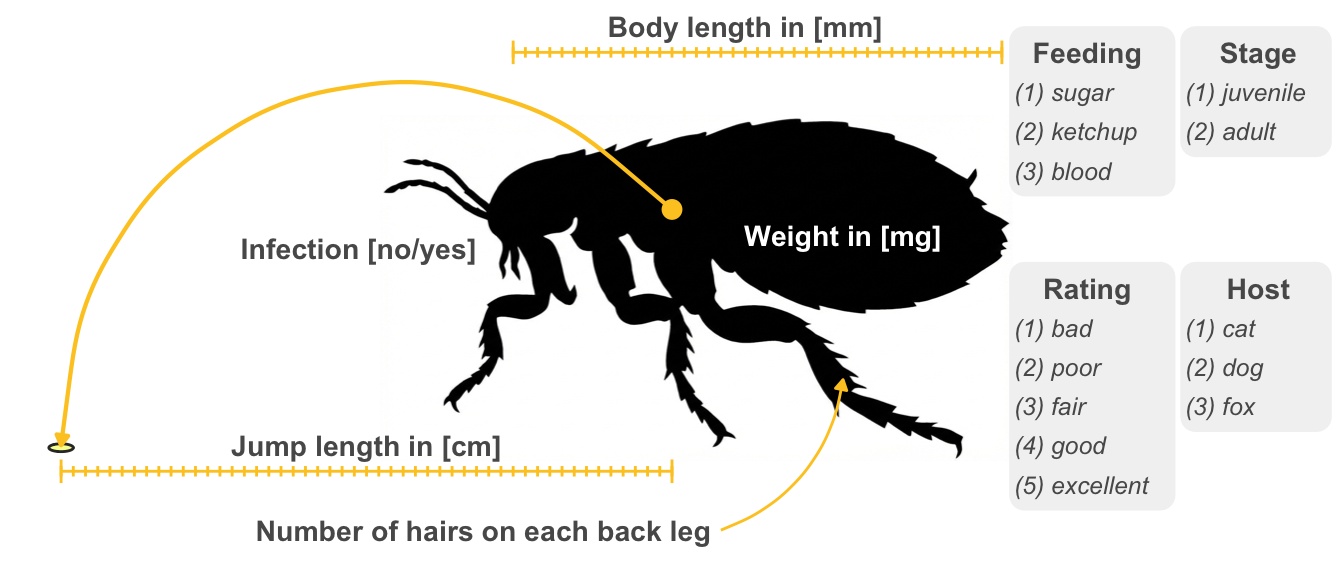
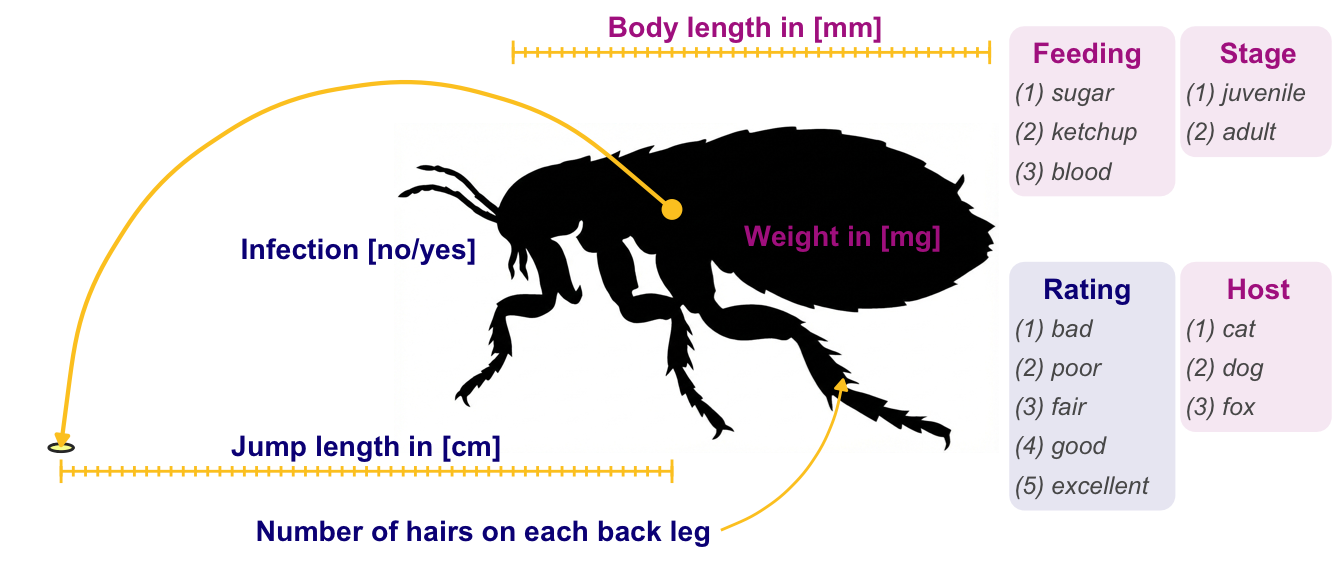
added

diff --git a/docs/chapter-11-covariate-data.html b/docs/chapter-11-covariate-data.html
@@ -432,7 +432,7 @@ window.Quarto = {
 </header>
 
 
-<p><em>Last modified on 30. December 2025 at 13:33:26</em></p>
+<p><em>Last modified on 30. December 2025 at 14:30:48</em></p>
 <blockquote class="blockquote">
 <p><em>“A quote.” — Dan Meyer</em></p>
 </blockquote>
@@ -1132,19 +1132,19 @@ Figure&nbsp;4.4: foo <strong>(A)</strong> foo <strong>(B)</strong> foo
 <span id="cb9-34"><a href="#cb9-34" aria-hidden="true" tabindex="-1"></a>  <span class="fu">theme_minimal</span>() <span class="sc">+</span></span>
 <span id="cb9-35"><a href="#cb9-35" aria-hidden="true" tabindex="-1"></a>  <span class="fu">theme_void</span>() <span class="sc">+</span></span>
 <span id="cb9-36"><a href="#cb9-36" aria-hidden="true" tabindex="-1"></a>  <span class="fu">coord_cartesian</span>(<span class="at">xlim =</span> <span class="fu">c</span>(<span class="sc">-</span><span class="dv">10</span>, <span class="dv">15</span>), <span class="at">ylim =</span> <span class="fu">c</span>(<span class="sc">-</span><span class="dv">10</span>, <span class="dv">10</span>)) <span class="sc">+</span></span>
-<span id="cb9-37"><a href="#cb9-37" aria-hidden="true" tabindex="-1"></a>  <span class="fu">geom_image</span>(<span class="fu">aes</span>(<span class="at">x =</span> <span class="dv">3</span>, <span class="at">y =</span> <span class="dv">0</span>, <span class="at">image =</span> <span class="st">"images/flea_00.png"</span>), <span class="at">size =</span> <span class="fl">1.1</span>) <span class="sc">+</span></span>
-<span id="cb9-38"><a href="#cb9-38" aria-hidden="true" tabindex="-1"></a>  <span class="fu">annotate</span>(<span class="st">"errorbar"</span>, <span class="at">xmin =</span> <span class="sc">-</span><span class="fl">0.75</span>, <span class="at">xmax =</span> <span class="fl">9.25</span>, <span class="at">x =</span> <span class="dv">5</span>, <span class="at">y =</span> <span class="dv">9</span>, <span class="at">color =</span> <span class="st">"#FDC926FF"</span>) <span class="sc">+</span></span>
+<span id="cb9-37"><a href="#cb9-37" aria-hidden="true" tabindex="-1"></a>  <span class="fu">geom_image</span>(<span class="fu">aes</span>(<span class="at">x =</span> <span class="dv">3</span>, <span class="at">y =</span> <span class="dv">0</span>, <span class="at">image =</span> <span class="st">"images/flea_00.png"</span>), <span class="at">size =</span> <span class="fl">1.05</span>) <span class="sc">+</span></span>
+<span id="cb9-38"><a href="#cb9-38" aria-hidden="true" tabindex="-1"></a>  <span class="fu">annotate</span>(<span class="st">"errorbar"</span>, <span class="at">xmin =</span> <span class="sc">-</span><span class="fl">0.75</span>, <span class="at">xmax =</span> <span class="dv">9</span>, <span class="at">x =</span> <span class="dv">5</span>, <span class="at">y =</span> <span class="dv">9</span>, <span class="at">color =</span> <span class="st">"#FDC926FF"</span>) <span class="sc">+</span></span>
 <span id="cb9-39"><a href="#cb9-39" aria-hidden="true" tabindex="-1"></a>  <span class="fu">annotate</span>(<span class="st">"text"</span>, <span class="at">x =</span> (<span class="sc">-</span><span class="fl">0.75</span> <span class="sc">+</span> <span class="fl">8.75</span>)<span class="sc">/</span><span class="dv">2</span>, <span class="at">y =</span> <span class="dv">10</span>, <span class="at">label =</span> <span class="st">"Body length in [mm]"</span>, </span>
-<span id="cb9-40"><a href="#cb9-40" aria-hidden="true" tabindex="-1"></a>           <span class="at">size =</span> <span class="fl">3.75</span>, <span class="at">fontface =</span> <span class="dv">2</span>, <span class="at">color =</span> <span class="st">"gray35"</span>) <span class="sc">+</span></span>
-<span id="cb9-41"><a href="#cb9-41" aria-hidden="true" tabindex="-1"></a>  <span class="fu">annotate</span>(<span class="st">"segment"</span>, <span class="at">x =</span> <span class="fu">seq</span>(<span class="sc">-</span><span class="fl">0.75</span>, <span class="fl">9.5</span>, <span class="at">by =</span> <span class="fl">0.25</span>), <span class="at">xend =</span> <span class="fu">seq</span>(<span class="sc">-</span><span class="fl">0.75</span>, <span class="fl">9.5</span>, <span class="at">by =</span> <span class="fl">0.25</span>),</span>
+<span id="cb9-40"><a href="#cb9-40" aria-hidden="true" tabindex="-1"></a>           <span class="at">size =</span> <span class="fl">3.75</span>, <span class="at">fontface =</span> <span class="dv">2</span>, <span class="at">color =</span> <span class="st">"#B12A90FF"</span>) <span class="sc">+</span></span>
+<span id="cb9-41"><a href="#cb9-41" aria-hidden="true" tabindex="-1"></a>  <span class="fu">annotate</span>(<span class="st">"segment"</span>, <span class="at">x =</span> <span class="fu">seq</span>(<span class="sc">-</span><span class="fl">0.75</span>, <span class="dv">9</span>, <span class="at">by =</span> <span class="fl">0.25</span>), <span class="at">xend =</span> <span class="fu">seq</span>(<span class="sc">-</span><span class="fl">0.75</span>, <span class="dv">9</span>, <span class="at">by =</span> <span class="fl">0.25</span>),</span>
 <span id="cb9-42"><a href="#cb9-42" aria-hidden="true" tabindex="-1"></a>           <span class="at">y =</span> <span class="fl">8.8</span>, <span class="at">yend =</span> <span class="fl">9.2</span>, <span class="at">color =</span> <span class="st">"#FDC926FF"</span>) <span class="sc">+</span></span>
 <span id="cb9-43"><a href="#cb9-43" aria-hidden="true" tabindex="-1"></a>  <span class="fu">geom_curve</span>(<span class="fu">aes</span>(<span class="at">x =</span> <span class="fl">3.5</span>, <span class="at">y =</span> <span class="sc">-</span><span class="fl">9.25</span>, <span class="at">xend =</span> <span class="dv">6</span>, <span class="at">yend =</span> <span class="sc">-</span><span class="fl">3.5</span>),</span>
 <span id="cb9-44"><a href="#cb9-44" aria-hidden="true" tabindex="-1"></a>             <span class="at">arrow =</span> <span class="fu">arrow</span>(<span class="at">length =</span> <span class="fu">unit</span>(<span class="fl">0.02</span>, <span class="st">"npc"</span>), <span class="at">type =</span> <span class="st">"closed"</span>),</span>
 <span id="cb9-45"><a href="#cb9-45" aria-hidden="true" tabindex="-1"></a>             <span class="at">curvature =</span> <span class="fl">0.3</span>, <span class="at">color =</span> <span class="st">"#FDC926FF"</span>, <span class="at">linewidth =</span> <span class="fl">0.5</span>) <span class="sc">+</span></span>
 <span id="cb9-46"><a href="#cb9-46" aria-hidden="true" tabindex="-1"></a>  <span class="fu">annotate</span>(<span class="st">"text"</span>, <span class="at">x =</span> <span class="fl">3.3</span>, <span class="at">y =</span> <span class="sc">-</span><span class="fl">9.25</span>, <span class="at">label =</span> <span class="st">"Number of hairs on each back leg"</span>,</span>
-<span id="cb9-47"><a href="#cb9-47" aria-hidden="true" tabindex="-1"></a>           <span class="at">hjust =</span> <span class="st">"right"</span>, <span class="at">size =</span> <span class="fl">3.75</span>, <span class="at">fontface =</span> <span class="dv">2</span>, <span class="at">color =</span> <span class="st">"gray35"</span>) <span class="sc">+</span></span>
+<span id="cb9-47"><a href="#cb9-47" aria-hidden="true" tabindex="-1"></a>           <span class="at">hjust =</span> <span class="st">"right"</span>, <span class="at">size =</span> <span class="fl">3.75</span>, <span class="at">fontface =</span> <span class="dv">2</span>, <span class="at">color =</span> <span class="st">"#0D0887FF"</span>) <span class="sc">+</span></span>
 <span id="cb9-48"><a href="#cb9-48" aria-hidden="true" tabindex="-1"></a>  <span class="fu">annotate</span>(<span class="st">"text"</span>, <span class="at">x =</span> <span class="dv">6</span>, <span class="at">y =</span> <span class="dv">2</span>, <span class="at">label =</span> <span class="st">"Weight in [mg]"</span>,</span>
-<span id="cb9-49"><a href="#cb9-49" aria-hidden="true" tabindex="-1"></a>           <span class="at">hjust =</span> <span class="st">"center"</span>, <span class="at">color =</span> <span class="st">"white"</span>, <span class="at">size =</span> <span class="fl">3.75</span>, <span class="at">fontface =</span> <span class="dv">2</span>) <span class="sc">+</span></span>
+<span id="cb9-49"><a href="#cb9-49" aria-hidden="true" tabindex="-1"></a>           <span class="at">hjust =</span> <span class="st">"center"</span>, <span class="at">color =</span> <span class="st">"#B12A90FF"</span>, <span class="at">size =</span> <span class="fl">3.75</span>, <span class="at">fontface =</span> <span class="dv">2</span>) <span class="sc">+</span></span>
 <span id="cb9-50"><a href="#cb9-50" aria-hidden="true" tabindex="-1"></a>  <span class="fu">geom_ellipse</span>(<span class="fu">aes</span>(<span class="at">x0 =</span> <span class="sc">-</span><span class="dv">10</span>, <span class="at">y0 =</span> <span class="sc">-</span><span class="fl">6.1</span>, <span class="at">a =</span> <span class="fl">0.25</span>, <span class="at">b =</span> <span class="fl">0.15</span>, <span class="at">angle =</span> <span class="dv">0</span>), </span>
 <span id="cb9-51"><a href="#cb9-51" aria-hidden="true" tabindex="-1"></a>               <span class="at">color =</span> <span class="st">"gray20"</span>, <span class="at">fill =</span> <span class="st">"#F0F92180"</span>) <span class="sc">+</span></span>
 <span id="cb9-52"><a href="#cb9-52" aria-hidden="true" tabindex="-1"></a>  <span class="fu">geom_curve</span>(<span class="fu">aes</span>(<span class="at">x =</span> <span class="fl">2.5</span>, <span class="at">y =</span> <span class="dv">3</span>, <span class="at">xend =</span> <span class="sc">-</span><span class="dv">10</span>, <span class="at">yend =</span> <span class="sc">-</span><span class="dv">6</span>),</span>
@@ -1153,42 +1153,42 @@ Figure&nbsp;4.4: foo <strong>(A)</strong> foo <strong>(B)</strong> foo
 <span id="cb9-55"><a href="#cb9-55" aria-hidden="true" tabindex="-1"></a>  <span class="fu">annotate</span>(<span class="st">"point"</span>, <span class="at">x =</span> <span class="fl">2.5</span>, <span class="at">y =</span> <span class="dv">3</span>, <span class="at">size =</span> <span class="dv">3</span>, <span class="at">color =</span> <span class="st">"#FDC926FF"</span>) <span class="sc">+</span></span>
 <span id="cb9-56"><a href="#cb9-56" aria-hidden="true" tabindex="-1"></a>  <span class="fu">annotate</span>(<span class="st">"errorbar"</span>, <span class="at">xmin =</span> <span class="fl">2.5</span>, <span class="at">xmax =</span> <span class="sc">-</span><span class="dv">10</span>, <span class="at">x =</span> <span class="fl">2.5</span>, <span class="at">y =</span> <span class="sc">-</span><span class="dv">7</span>, <span class="at">color =</span> <span class="st">"#FDC926FF"</span>) <span class="sc">+</span></span>
 <span id="cb9-57"><a href="#cb9-57" aria-hidden="true" tabindex="-1"></a>  <span class="fu">annotate</span>(<span class="st">"text"</span>, <span class="at">x =</span> (<span class="fl">2.5</span> <span class="sc">+</span> <span class="sc">-</span><span class="dv">10</span>)<span class="sc">/</span><span class="dv">2</span>, <span class="at">y =</span> <span class="sc">-</span><span class="dv">6</span>, <span class="at">label =</span> <span class="st">"Jump length in [cm]"</span>, </span>
-<span id="cb9-58"><a href="#cb9-58" aria-hidden="true" tabindex="-1"></a>           <span class="at">size =</span> <span class="fl">3.75</span>, <span class="at">fontface =</span> <span class="dv">2</span>, <span class="at">color =</span> <span class="st">"gray35"</span>) <span class="sc">+</span></span>
+<span id="cb9-58"><a href="#cb9-58" aria-hidden="true" tabindex="-1"></a>           <span class="at">size =</span> <span class="fl">3.75</span>, <span class="at">fontface =</span> <span class="dv">2</span>, <span class="at">color =</span> <span class="st">"#0D0887FF"</span>) <span class="sc">+</span></span>
 <span id="cb9-59"><a href="#cb9-59" aria-hidden="true" tabindex="-1"></a>  <span class="fu">annotate</span>(<span class="st">"segment"</span>, <span class="at">x =</span> <span class="fu">seq</span>(<span class="sc">-</span><span class="dv">10</span>, <span class="fl">2.5</span>, <span class="at">by =</span> <span class="fl">0.25</span>), <span class="at">xend =</span> <span class="fu">seq</span>(<span class="sc">-</span><span class="dv">10</span>, <span class="fl">2.5</span>, <span class="at">by =</span> <span class="fl">0.25</span>),</span>
 <span id="cb9-60"><a href="#cb9-60" aria-hidden="true" tabindex="-1"></a>           <span class="at">y =</span> <span class="sc">-</span><span class="fl">6.8</span>, <span class="at">yend =</span> <span class="sc">-</span><span class="fl">7.2</span>, <span class="at">color =</span> <span class="st">"#FDC926FF"</span>) <span class="sc">+</span></span>
 <span id="cb9-61"><a href="#cb9-61" aria-hidden="true" tabindex="-1"></a>  <span class="fu">annotate</span>(<span class="st">"text"</span>, <span class="at">x =</span> <span class="sc">-</span><span class="fl">1.5</span>, <span class="at">y =</span> <span class="fl">1.5</span>, <span class="at">label =</span> <span class="st">"Infection [no/yes]"</span>, </span>
-<span id="cb9-62"><a href="#cb9-62" aria-hidden="true" tabindex="-1"></a>           <span class="at">size =</span> <span class="fl">3.75</span>, <span class="at">fontface =</span> <span class="dv">2</span>, <span class="at">color =</span> <span class="st">"gray35"</span>, <span class="at">hjust =</span> <span class="st">"right"</span>) <span class="sc">+</span></span>
+<span id="cb9-62"><a href="#cb9-62" aria-hidden="true" tabindex="-1"></a>           <span class="at">size =</span> <span class="fl">3.75</span>, <span class="at">fontface =</span> <span class="dv">2</span>, <span class="at">color =</span> <span class="st">"#0D0887FF"</span>, <span class="at">hjust =</span> <span class="st">"right"</span>) <span class="sc">+</span></span>
 <span id="cb9-63"><a href="#cb9-63" aria-hidden="true" tabindex="-1"></a>  <span class="do">## upper</span></span>
 <span id="cb9-64"><a href="#cb9-64" aria-hidden="true" tabindex="-1"></a>  <span class="fu">geom_shape</span>(<span class="at">data =</span> <span class="fu">tibble</span>(<span class="at">x =</span> <span class="fu">c</span>(<span class="fl">9.4</span>, <span class="fl">12.8</span>, <span class="fl">12.8</span>, <span class="fl">9.4</span>), </span>
 <span id="cb9-65"><a href="#cb9-65" aria-hidden="true" tabindex="-1"></a>                           <span class="at">y =</span> <span class="fu">c</span>(<span class="fl">3.5</span>, <span class="fl">3.5</span>, <span class="dv">10</span>, <span class="dv">10</span>)),</span>
-<span id="cb9-66"><a href="#cb9-66" aria-hidden="true" tabindex="-1"></a>             <span class="fu">aes</span>(x, y), <span class="at">radius =</span> <span class="fu">unit</span>(<span class="fl">0.2</span>, <span class="st">'cm'</span>), <span class="at">fill =</span> <span class="st">"gray95"</span>) <span class="sc">+</span></span>
+<span id="cb9-66"><a href="#cb9-66" aria-hidden="true" tabindex="-1"></a>             <span class="fu">aes</span>(x, y), <span class="at">radius =</span> <span class="fu">unit</span>(<span class="fl">0.2</span>, <span class="st">'cm'</span>), <span class="at">fill =</span> <span class="st">"#B12A90FF"</span>, <span class="at">alpha =</span> <span class="fl">0.1</span>) <span class="sc">+</span></span>
 <span id="cb9-67"><a href="#cb9-67" aria-hidden="true" tabindex="-1"></a>  <span class="fu">annotate</span>(<span class="st">"text"</span>, <span class="at">hjust =</span> <span class="st">"center"</span>, <span class="at">x =</span> <span class="dv">11</span>, <span class="at">y =</span> <span class="dv">9</span>, <span class="at">label =</span> <span class="st">"Feeding"</span>,</span>
-<span id="cb9-68"><a href="#cb9-68" aria-hidden="true" tabindex="-1"></a>           <span class="at">size =</span> <span class="fl">3.75</span>, <span class="at">fontface =</span> <span class="dv">2</span>, <span class="at">color =</span> <span class="st">"gray35"</span>)  <span class="sc">+</span></span>
+<span id="cb9-68"><a href="#cb9-68" aria-hidden="true" tabindex="-1"></a>           <span class="at">size =</span> <span class="fl">3.75</span>, <span class="at">fontface =</span> <span class="dv">2</span>, <span class="at">color =</span> <span class="st">"#B12A90FF"</span>)  <span class="sc">+</span></span>
 <span id="cb9-69"><a href="#cb9-69" aria-hidden="true" tabindex="-1"></a>  <span class="fu">annotate</span>(<span class="st">"text"</span>, <span class="at">hjust =</span> <span class="st">"left"</span>, <span class="at">x =</span> <span class="fl">9.5</span>, <span class="at">y =</span> <span class="fu">c</span>(<span class="fl">7.5</span>, <span class="dv">6</span>, <span class="fl">4.5</span>), </span>
 <span id="cb9-70"><a href="#cb9-70" aria-hidden="true" tabindex="-1"></a>           <span class="at">label =</span> <span class="fu">c</span>(<span class="st">"(1) sugar"</span>, <span class="st">"(2) ketchup"</span>, <span class="st">"(3) blood"</span>),</span>
 <span id="cb9-71"><a href="#cb9-71" aria-hidden="true" tabindex="-1"></a>           <span class="at">size =</span> <span class="fl">3.25</span>, <span class="at">fontface =</span> <span class="dv">3</span>, <span class="at">color =</span> <span class="st">"gray35"</span>)  <span class="sc">+</span></span>
 <span id="cb9-72"><a href="#cb9-72" aria-hidden="true" tabindex="-1"></a>  <span class="fu">geom_shape</span>(<span class="at">data =</span> <span class="fu">tibble</span>(<span class="at">x =</span> <span class="fu">c</span>(<span class="fl">12.9</span>, <span class="dv">16</span>, <span class="dv">16</span>, <span class="fl">12.9</span>), </span>
 <span id="cb9-73"><a href="#cb9-73" aria-hidden="true" tabindex="-1"></a>                           <span class="at">y =</span> <span class="fu">c</span>(<span class="dv">5</span>, <span class="dv">5</span>, <span class="dv">10</span>, <span class="dv">10</span>)),</span>
-<span id="cb9-74"><a href="#cb9-74" aria-hidden="true" tabindex="-1"></a>             <span class="fu">aes</span>(x, y), <span class="at">radius =</span> <span class="fu">unit</span>(<span class="fl">0.2</span>, <span class="st">'cm'</span>), <span class="at">fill =</span> <span class="st">"gray95"</span>) <span class="sc">+</span></span>
+<span id="cb9-74"><a href="#cb9-74" aria-hidden="true" tabindex="-1"></a>             <span class="fu">aes</span>(x, y), <span class="at">radius =</span> <span class="fu">unit</span>(<span class="fl">0.2</span>, <span class="st">'cm'</span>), <span class="at">fill =</span> <span class="st">"#B12A90FF"</span>, <span class="at">alpha =</span> <span class="fl">0.1</span>) <span class="sc">+</span></span>
 <span id="cb9-75"><a href="#cb9-75" aria-hidden="true" tabindex="-1"></a>  <span class="fu">annotate</span>(<span class="st">"text"</span>, <span class="at">hjust =</span> <span class="st">"center"</span>, <span class="at">x =</span> <span class="fl">14.5</span>, <span class="at">y =</span> <span class="dv">9</span>, <span class="at">label =</span> <span class="st">"Stage"</span>,</span>
-<span id="cb9-76"><a href="#cb9-76" aria-hidden="true" tabindex="-1"></a>           <span class="at">size =</span> <span class="fl">3.75</span>, <span class="at">fontface =</span> <span class="dv">2</span>, <span class="at">color =</span> <span class="st">"gray35"</span>) <span class="sc">+</span></span>
+<span id="cb9-76"><a href="#cb9-76" aria-hidden="true" tabindex="-1"></a>           <span class="at">size =</span> <span class="fl">3.75</span>, <span class="at">fontface =</span> <span class="dv">2</span>, <span class="at">color =</span> <span class="st">"#B12A90FF"</span>) <span class="sc">+</span></span>
 <span id="cb9-77"><a href="#cb9-77" aria-hidden="true" tabindex="-1"></a>  <span class="fu">annotate</span>(<span class="st">"text"</span>, <span class="at">hjust =</span> <span class="st">"left"</span>, <span class="at">x =</span> <span class="dv">13</span>, <span class="at">y =</span> <span class="fu">c</span>(<span class="fl">7.5</span>, <span class="dv">6</span>), </span>
 <span id="cb9-78"><a href="#cb9-78" aria-hidden="true" tabindex="-1"></a>           <span class="at">label =</span> <span class="fu">c</span>(<span class="st">"(1) juvenile"</span>, <span class="st">"(2) adult"</span>),</span>
 <span id="cb9-79"><a href="#cb9-79" aria-hidden="true" tabindex="-1"></a>           <span class="at">size =</span> <span class="fl">3.25</span>, <span class="at">fontface =</span> <span class="dv">3</span>, <span class="at">color =</span> <span class="st">"gray35"</span>) <span class="sc">+</span></span>
 <span id="cb9-80"><a href="#cb9-80" aria-hidden="true" tabindex="-1"></a>  <span class="do">## lower</span></span>
 <span id="cb9-81"><a href="#cb9-81" aria-hidden="true" tabindex="-1"></a>  <span class="fu">geom_shape</span>(<span class="at">data =</span> <span class="fu">tibble</span>(<span class="at">x =</span> <span class="fu">c</span>(<span class="fl">9.4</span>, <span class="fl">12.8</span>, <span class="fl">12.8</span>, <span class="fl">9.4</span>), </span>
 <span id="cb9-82"><a href="#cb9-82" aria-hidden="true" tabindex="-1"></a>                           <span class="at">y =</span> <span class="fu">c</span>(<span class="sc">-</span><span class="fl">8.5</span>, <span class="sc">-</span><span class="fl">8.5</span>, <span class="dv">1</span>, <span class="dv">1</span>)),</span>
-<span id="cb9-83"><a href="#cb9-83" aria-hidden="true" tabindex="-1"></a>             <span class="fu">aes</span>(x, y), <span class="at">radius =</span> <span class="fu">unit</span>(<span class="fl">0.2</span>, <span class="st">'cm'</span>), <span class="at">fill =</span> <span class="st">"gray95"</span>) <span class="sc">+</span></span>
+<span id="cb9-83"><a href="#cb9-83" aria-hidden="true" tabindex="-1"></a>             <span class="fu">aes</span>(x, y), <span class="at">radius =</span> <span class="fu">unit</span>(<span class="fl">0.2</span>, <span class="st">'cm'</span>), <span class="at">fill =</span> <span class="st">"#0D0887FF"</span>, <span class="at">alpha =</span> <span class="fl">0.1</span>) <span class="sc">+</span></span>
 <span id="cb9-84"><a href="#cb9-84" aria-hidden="true" tabindex="-1"></a>  <span class="fu">annotate</span>(<span class="st">"text"</span>, <span class="at">hjust =</span> <span class="st">"center"</span>, <span class="at">x =</span> <span class="dv">11</span>, <span class="at">y =</span> <span class="dv">0</span>, <span class="at">label =</span> <span class="st">"Rating"</span>,</span>
-<span id="cb9-85"><a href="#cb9-85" aria-hidden="true" tabindex="-1"></a>           <span class="at">size =</span> <span class="fl">3.75</span>, <span class="at">fontface =</span> <span class="dv">2</span>, <span class="at">color =</span> <span class="st">"gray35"</span>)  <span class="sc">+</span></span>
+<span id="cb9-85"><a href="#cb9-85" aria-hidden="true" tabindex="-1"></a>           <span class="at">size =</span> <span class="fl">3.75</span>, <span class="at">fontface =</span> <span class="dv">2</span>, <span class="at">color =</span> <span class="st">"#0D0887FF"</span>)  <span class="sc">+</span></span>
 <span id="cb9-86"><a href="#cb9-86" aria-hidden="true" tabindex="-1"></a>  <span class="fu">annotate</span>(<span class="st">"text"</span>, <span class="at">hjust =</span> <span class="st">"left"</span>, <span class="at">x =</span> <span class="fl">9.5</span>, <span class="at">y =</span> <span class="fu">c</span>(<span class="sc">-</span><span class="fl">1.5</span>, <span class="sc">-</span><span class="dv">3</span>, <span class="sc">-</span><span class="fl">4.5</span>, <span class="sc">-</span><span class="dv">6</span>, <span class="sc">-</span><span class="fl">7.5</span>), </span>
 <span id="cb9-87"><a href="#cb9-87" aria-hidden="true" tabindex="-1"></a>           <span class="at">label =</span> <span class="fu">c</span>(<span class="st">"(1) bad"</span>, <span class="st">"(2) poor"</span>, <span class="st">"(3) fair"</span>, <span class="st">"(4) good"</span>, <span class="st">"(5) excellent"</span>),</span>
 <span id="cb9-88"><a href="#cb9-88" aria-hidden="true" tabindex="-1"></a>           <span class="at">size =</span> <span class="fl">3.25</span>, <span class="at">fontface =</span> <span class="dv">3</span>, <span class="at">color =</span> <span class="st">"gray35"</span>)  <span class="sc">+</span></span>
 <span id="cb9-89"><a href="#cb9-89" aria-hidden="true" tabindex="-1"></a>  <span class="fu">geom_shape</span>(<span class="at">data =</span> <span class="fu">tibble</span>(<span class="at">x =</span> <span class="fu">c</span>(<span class="fl">12.9</span>, <span class="dv">16</span>, <span class="dv">16</span>, <span class="fl">12.9</span>), </span>
 <span id="cb9-90"><a href="#cb9-90" aria-hidden="true" tabindex="-1"></a>                           <span class="at">y =</span> <span class="fu">c</span>(<span class="sc">-</span><span class="fl">5.5</span>, <span class="sc">-</span><span class="fl">5.5</span>, <span class="dv">1</span>, <span class="dv">1</span>)),</span>
-<span id="cb9-91"><a href="#cb9-91" aria-hidden="true" tabindex="-1"></a>             <span class="fu">aes</span>(x, y), <span class="at">radius =</span> <span class="fu">unit</span>(<span class="fl">0.2</span>, <span class="st">'cm'</span>), <span class="at">fill =</span> <span class="st">"gray95"</span>) <span class="sc">+</span></span>
+<span id="cb9-91"><a href="#cb9-91" aria-hidden="true" tabindex="-1"></a>             <span class="fu">aes</span>(x, y), <span class="at">radius =</span> <span class="fu">unit</span>(<span class="fl">0.2</span>, <span class="st">'cm'</span>), <span class="at">fill =</span> <span class="st">"#B12A90FF"</span>, <span class="at">alpha =</span> <span class="fl">0.1</span>) <span class="sc">+</span></span>
 <span id="cb9-92"><a href="#cb9-92" aria-hidden="true" tabindex="-1"></a>  <span class="fu">annotate</span>(<span class="st">"text"</span>, <span class="at">hjust =</span> <span class="st">"center"</span>, <span class="at">x =</span> <span class="fl">14.5</span>, <span class="at">y =</span> <span class="dv">0</span>, <span class="at">label =</span> <span class="st">"Host"</span>,</span>
-<span id="cb9-93"><a href="#cb9-93" aria-hidden="true" tabindex="-1"></a>           <span class="at">size =</span> <span class="fl">3.75</span>, <span class="at">fontface =</span> <span class="dv">2</span>, <span class="at">color =</span> <span class="st">"gray35"</span>) <span class="sc">+</span></span>
+<span id="cb9-93"><a href="#cb9-93" aria-hidden="true" tabindex="-1"></a>           <span class="at">size =</span> <span class="fl">3.75</span>, <span class="at">fontface =</span> <span class="dv">2</span>, <span class="at">color =</span> <span class="st">"#B12A90FF"</span>) <span class="sc">+</span></span>
 <span id="cb9-94"><a href="#cb9-94" aria-hidden="true" tabindex="-1"></a>  <span class="fu">annotate</span>(<span class="st">"text"</span>, <span class="at">hjust =</span> <span class="st">"left"</span>, <span class="at">x =</span> <span class="dv">13</span>, <span class="at">y =</span> <span class="fu">c</span>(<span class="sc">-</span><span class="fl">1.5</span>, <span class="sc">-</span><span class="dv">3</span>, <span class="sc">-</span><span class="fl">4.5</span>), </span>
 <span id="cb9-95"><a href="#cb9-95" aria-hidden="true" tabindex="-1"></a>           <span class="at">label =</span> <span class="fu">c</span>(<span class="st">"(1) cat"</span>, <span class="st">"(2) dog"</span>, <span class="st">"(3) fox"</span>),</span>
 <span id="cb9-96"><a href="#cb9-96" aria-hidden="true" tabindex="-1"></a>           <span class="at">size =</span> <span class="fl">3.25</span>, <span class="at">fontface =</span> <span class="dv">3</span>, <span class="at">color =</span> <span class="st">"gray35"</span>) </span>
